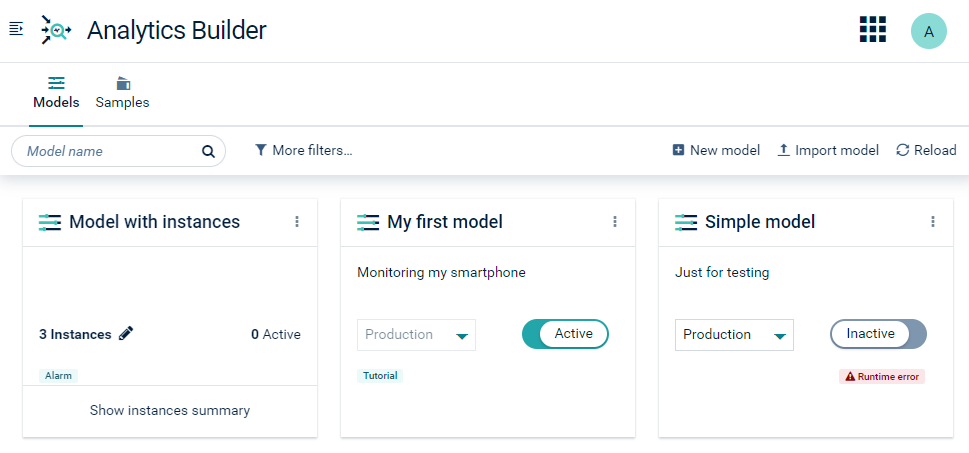
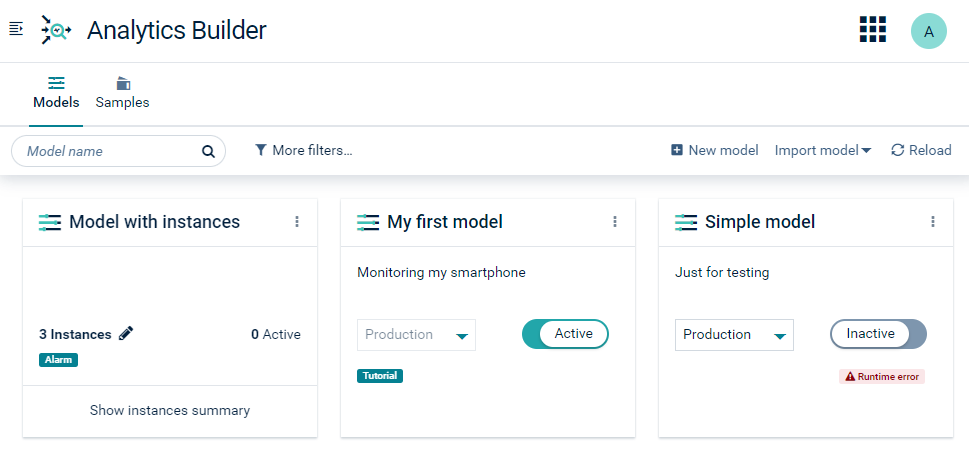
Updated doc for new Paste command (PAB-4414)

Changed region(s): [[0.6811, 0.3091, 0.9907, 0.34], [0.3715, 0.8035, 0.4334, 0.8653], [0.031, 0.7726, 0.0929, 0.8344]]

diff --git a/content/streaming-analytics/overview-analytics-bundle/analytics-builder.md b/content/streaming-analytics/overview-analytics-bundle/analytics-builder.md
@@ -5,7 +5,7 @@ layout: redirect
 ---
 The **Analytics Builder** page of the Streaming Analytics application allows you to build analytic models that transform or analyze streaming data in order to generate new data or output events. The models are capable of processing data in real time.
 
-The models interact with the devices and sensor measurements. Models can receive `Measurement` and `Event` objects from devices, which provide the inputs to calculations or pattern detection performed within a model. Models can create new `Measurement` objects which can represent derived values from sensors \(for example, an average temperature\) or the measurements can be used as an input to other analytic models \(see [Connections between models](/streaming-analytics/analytics-builder/#connections-between-models)\). Models can create new `Operation` objects which are sent to devices to control the devices \(for example, to sound an alarm bell, display a message on a screen, or switch a device off\). The models are also stored in the {{< product-c8y-iot >}} inventory, but can be imported or downloaded via the model manager.
+The models interact with the devices and sensor measurements. Models can receive `Measurement` and `Event` objects from devices, which provide the inputs to calculations or pattern detection performed within a model. Models can create new `Measurement` objects which can represent derived values from sensors \(for example, an average temperature\) or the measurements can be used as an input to other analytic models \(see [Connections between models](/streaming-analytics/analytics-builder/#connections-between-models)\). Models can create new `Operation` objects which are sent to devices to control the devices \(for example, to sound an alarm bell, display a message on a screen, or switch a device off\). The models are also stored in the {{< product-c8y-iot >}} inventory, but can be uploaded or downloaded via the model manager.
 
 You build the models in a graphical environment by combining pre-built *blocks* into *models*. The blocks in a model package up small bits of logic, and have a number of inputs, outputs and parameters. Each block implements a specific piece of functionality, such as receiving data from a sensor, performing a calculation, detecting a condition, or generating an output signal. You define the configuration of the blocks and connect the blocks using *wires*. You can edit the models, simulate deployment with historic data, or run them against live systems. See [Analytics Builder](/streaming-analytics/analytics-builder/) for detailed information.
 

diff --git a/content/streaming-analytics/analytics-builder-bundle/using-the-model-manager.md b/content/streaming-analytics/analytics-builder-bundle/using-the-model-manager.md
@@ -234,17 +234,31 @@ On the **Models** tab of the model manager, click the actions menu of the model 
 The **Copy** command is also available when the model is active (read-only mode). This allows you to copy the JSON code at any time.
 {{< /c8y-admon-info>}}
 
-### Importing a model {#importing-a-model}
+### Uploading a model {#uploading-a-model}
 
-You can import a model that has previously been downloaded in JSON format. This is helpful, for example, if you want to import a model from a different {{< product-c8y-iot >}} tenant.
+You can upload a model that has previously been downloaded in JSON format. This is helpful, for example, if you want to upload a model from a different {{< product-c8y-iot >}} tenant.
 
-#### To import a model {#to-import-a-model}
+#### To upload a model {#to-upload-a-model}
 
-1.  On the **Models** tab of the model manager, click **Import model** in the toolbar.
-2.  In the resulting dialog box, navigate to the location where the model that you want to import is stored.
+1.  On the **Models** tab of the model manager, click **Import model** in the toolbar, and then click **Upload**.
+2.  In the resulting dialog box, navigate to the location where the model that you want to upload is stored.
 3.  Select the model and click **Open**.
 
-A card for the imported model is shown in the model manager.
+A card for the uploaded model is shown in the model manager.
+
+### Pasting a model {#pasting-a-model}
+
+Instead of uploading a model, you can also paste the JSON code for a model from the clipboard.
+
+#### To paste a model {#to-paste-a-model}
+
+On the **Models** tab of the model manager, click **Import model** in the toolbar, and then click **Paste**.
+
+{{< c8y-admon-info>}}
+The **Paste** command is enabled only if the clipboard contains content, and only if your browser allows clipboard access. When you click **Import model** for the first time, some browsers ask if you want to allow or block clipboard access. In other browsers, such as Firefox, you must manually allow it in the browser settings.
+{{< /c8y-admon-info>}}
+
+If the clipboard contains valid JSON code for a model, a card for the pasted model is shown in the model manager.
 
 ### Removing a model {#removing-a-model}
 
